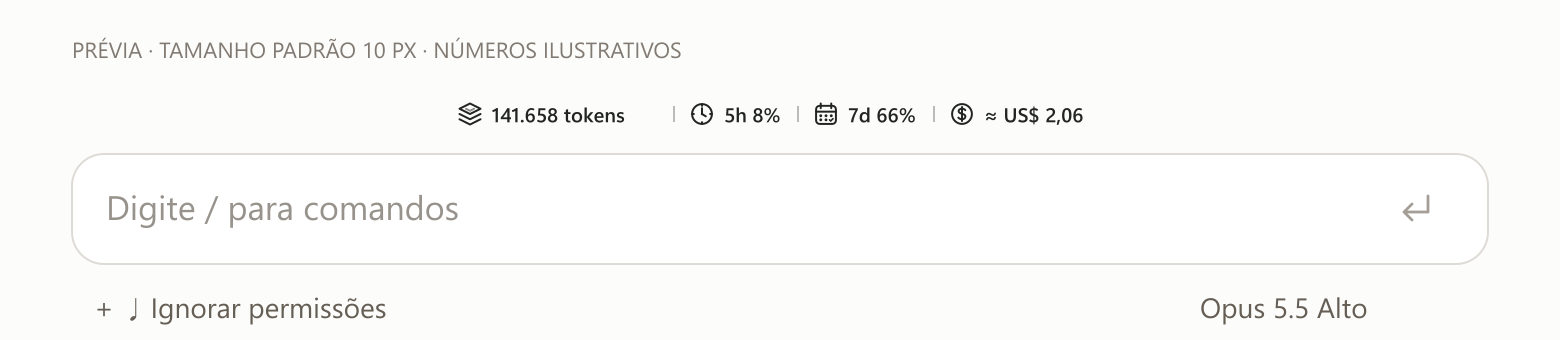
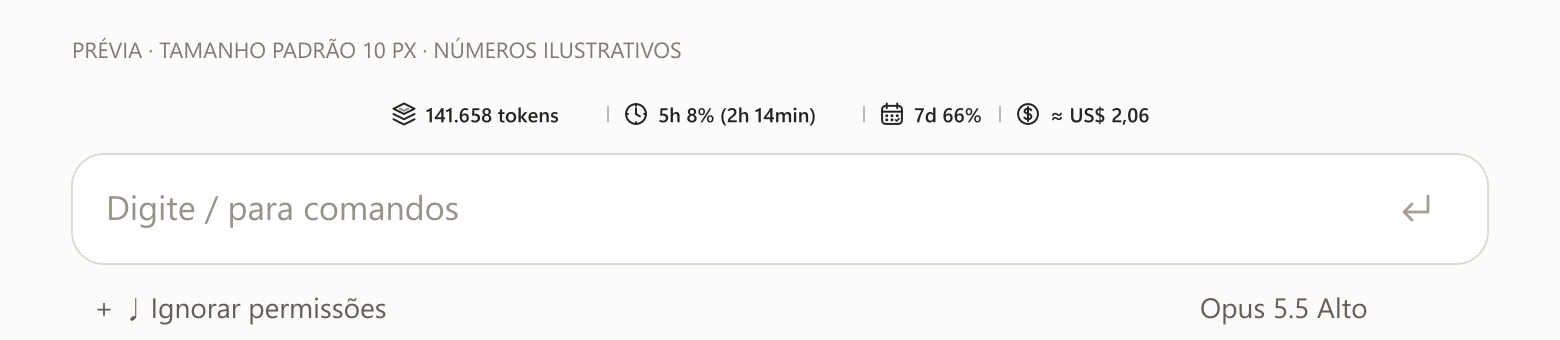
Show five-hour reset countdown in the compact band

Changed region(s): [[0.2462, 0.2941, 0.7385, 0.3824]]

diff --git a/tests/mod.test.ts b/tests/mod.test.ts
@@ -15,7 +15,7 @@ function fixture(on, seed: Record<string, unknown> = {}) {
   const commands: string[] = [];
   const renders: any[] = [];
   const reads: string[] = [];
-  mock.clock(on, { now: 1_791_046_800_000 });
+  const clock = mock.clock(on, { now: 1_791_046_800_000 });
   on('store.get', ($, e) => ({ value: saved.get(e.key) }));
   on('store.set', ($, e) => { saved.set(e.key, e.value); return { value: undefined }; });
   on('session.id', () => ({ value: identity.id }));
@@ -36,7 +36,7 @@ function fixture(on, seed: Record<string, unknown> = {}) {
   on('session.measure', ($, e) => ({ changed: e.changed }));
   on('prompt.submit', ($, e) => ({ text: e.text }));
   on('turn.complete', () => ({ text: '' }));
-  return { saved, commands, renders, identity, reads };
+  return { saved, commands, renders, identity, reads, clock };
 }
 
 test('draws a tiny SVG above the input, preserves other mods and reads icons only once', async ($, on) => {
@@ -78,6 +78,7 @@ test('each native switch removes its own indicator without custom panels', async
     const input = { component: 'AbovePrompt', surface: 'desktop', props: { hasSurvey: false, bodyColumns: 80 } };
     const element = type => ({ children = [], ...props }) => ({ type, props, children });
     const $ = { plugin: { root: 'plugin' }, fs: { read: async () => '<svg><path d="M0 0h24"/></svg>' },
+      clock: { now: async () => 1_791_046_800_000 },
       ui: { resolve: () => ({ Text: element('Text'), Box: element('Box'), Svg: element('Svg') }) } };
     const other = { type: 'Text', props: {}, children: ['Other mod'] };
     let fallbacks = 0;
@@ -98,6 +99,35 @@ test('each native switch removes its own indicator without custom panels', async
       [{ event: 'ui.render', matcher: { component: 'AbovePrompt' } }]);
     expect(registrations.some(r => r.event === 'command.run')).toBe(false);
   }
+});
+
+test('the five-hour countdown redraws while idle and follows a new reset timestamp', async ($, on) => {
+  const f = fixture(on);
+  const invalidations: string[] = [];
+  on('ui.invalidate', ($, e, next) => { invalidations.push(e.event); return next(e); });
+  await $.session.start({ cwd: CWD, surface: 'desktop', isInteractive: true });
+  await $.classic.SessionStart({ source: 'resume' });
+  const measured = { ...usage, rateLimits: [
+    { kind: 'five_hour', percentUsed: 23, resetsAt: new Date(f.clock.now() + 134 * 60000).toISOString() },
+    { kind: 'seven_day', percentUsed: 61, resetsAt: new Date(f.clock.now() + 7 * 86400000).toISOString() }
+  ], changed: ['rateLimits'] as const };
+  await $.session.measure(measured);
+  const ui = await $.ui.mount({ ...band, surface: 'desktop' });
+  expect((await ui.find({ type: 'Svg' })).props.alt).toContain('5h 23% (2h 14min)');
+  expect((await ui.find({ type: 'Svg' })).props.alt).toContain('Semana: 7d 61%;');
+  invalidations.length = 0;
+  await f.clock.advance(60000);
+  expect(invalidations).toEqual(['ui.render']);
+  expect((await ui.find({ type: 'Svg' })).props.alt).toContain('5h 23% (2h 13min)');
+  await $.session.measure({ ...measured, rateLimits: [
+    { kind: 'five_hour', percentUsed: 0, resetsAt: new Date(f.clock.now() + 60000).toISOString() }
+  ] });
+  expect((await ui.find({ type: 'Svg' })).props.alt).toContain('5h 0% (1min)');
+  await f.clock.advance(60000);
+  expect((await ui.find({ type: 'Svg' })).props.alt).toContain('5h 0% (0min)');
+  await $.session.measure({ ...measured, rateLimits: [{ kind: 'five_hour', percentUsed: 5 }] });
+  expect((await ui.find({ type: 'Svg' })).props.alt).toContain('Sessão (5 horas): 5h 5%;');
+  await ui.unmount();
 });
 
 test('updates quota measurements and keeps unavailable data distinct from zero', async ($, on) => {

diff --git a/hooks/lib.js b/hooks/lib.js
@@ -21,6 +21,17 @@ export function tokenCount(value) {
     ? Math.round(value).toString().replace(/\B(?=(\d{3})+(?!\d))/g, '.') : '—';
 }
 
+export function resetCountdown(resetsAt, now) {
+  if (typeof resetsAt !== 'string' || !Number.isFinite(now)) return null;
+  const reset = Date.parse(resetsAt);
+  if (!Number.isFinite(reset)) return null;
+  // Round up: a window with a few seconds remaining has not reset yet.
+  const totalMinutes = Math.max(0, Math.ceil((reset - now) / 60000));
+  const hours = Math.floor(totalMinutes / 60);
+  const minutes = totalMinutes % 60;
+  return hours ? hours + 'h' + (minutes ? ' ' + minutes + 'min' : '') : minutes + 'min';
+}
+
 export function emptyLedger() {
   return { usd: 0, requests: 0, unpriced: 0, seen: [], models: {}, sinceActivation: false };
 }
@@ -52,7 +63,7 @@ export function costInfo(usage, ledger) {
   return { usd: ledger.usd, source: 'tabela oficial', partial: ledger.sinceActivation || ledger.unpriced > 0 };
 }
 
-export function indicators(usage, prefs, ledger) {
+export function indicators(usage, prefs, ledger, now) {
   const result = [];
   const context = usage?.context ?? {};
   if (prefs.context) result.push({ key: 'context', label: 'Contexto', value: context.tokens, text:
@@ -60,7 +71,9 @@ export function indicators(usage, prefs, ledger) {
   for (const [key, kind, label, short] of [['session', 'five_hour', 'Sessão (5 horas)', '5h'], ['weekly', 'seven_day', 'Semana', '7d']]) {
     if (!prefs[key]) continue;
     const window = usage?.rateLimits?.find(w => w.kind === kind);
-    result.push({ key, label, value: window?.percentUsed, text: short + ' ' + percent(window?.percentUsed) });
+    const remaining = key === 'session' ? resetCountdown(window?.resetsAt, now) : null;
+    result.push({ key, label, value: window?.percentUsed,
+      text: short + ' ' + percent(window?.percentUsed) + (remaining === null ? '' : ' (' + remaining + ')') });
   }
   if (prefs.cost) {
     const cost = costInfo(usage, ledger);

diff --git a/tests/pricing.test.ts b/tests/pricing.test.ts
@@ -1,9 +1,25 @@
 import { expect, test } from 'claude-code/testing';
 import { modelPrice, requestCost } from '../hooks/prices.js';
-import { addRequest, emptyLedger, costInfo, indicators, DEFAULTS, preferences } from '../hooks/lib.js';
+import { addRequest, emptyLedger, costInfo, indicators, DEFAULTS, preferences, resetCountdown } from '../hooks/lib.js';
 
 const response = { model: 'claude-opus-5-5-20260901', input_tokens: 1000, output_tokens: 100,
   cache_creation_input_tokens: 2000, cache_read_input_tokens: 5000 };
+
+test('counts down the actual account reset across time zones without inventing missing data', () => {
+  const now = Date.parse('2026-10-03T17:00:00-03:00');
+  expect(resetCountdown('2026-10-03T22:14:00Z', now)).toBe('2h 14min');
+  expect(resetCountdown('2026-10-03T19:14:00-03:00', now)).toBe('2h 14min');
+  expect(resetCountdown('2026-10-03T21:00:00Z', now)).toBe('1h');
+  expect(resetCountdown('2026-10-03T20:00:01Z', now)).toBe('1min');
+  expect(resetCountdown('2026-10-03T20:00:00Z', now)).toBe('0min');
+  expect(resetCountdown('2026-10-02T20:00:00Z', now)).toBe('0min');
+  for (const timestamp of [undefined, null, '', 'not a timestamp', 1791064800])
+    expect(resetCountdown(timestamp, now)).toBe(null);
+  expect(resetCountdown('2026-10-03T22:14:00Z', NaN)).toBe(null);
+  const measured = { rateLimits: [{ kind: 'five_hour', percentUsed: 100, resetsAt: '2026-10-03T20:00:00Z' }] };
+  expect(indicators(measured, DEFAULTS, emptyLedger(), now)[1].text).toBe('5h 100% (0min)');
+  expect(indicators(measured, { ...DEFAULTS, session: false }, emptyLedger(), now).some(item => item.key === 'session')).toBe(false);
+});
 
 test('prices disjoint input, output and cache categories, including Opus 5.5 cache discount', () => {
   expect(Number(requestCost(response).toFixed(6))).toBe(0.017);

diff --git a/hooks/register.js b/hooks/register.js
@@ -5,6 +5,16 @@ let ledger = emptyLedger();
 let sessionId = '';
 let usage = null;
 let writes = Promise.resolve();
+let countdown;
+
+function startCountdown($, enabled) {
+  if (enabled && !countdown) {
+    countdown = $.clock.every(60000, () => {
+      if (usage?.rateLimits?.some(window => window.kind === 'five_hour' && window.resetsAt))
+        $.ui.invalidate('ui.render');
+    });
+  }
+}
 
 async function refresh($) {
   usage = await $.session.usage();
@@ -26,11 +36,13 @@ export function register(on, options = {}) {
 
   on('session.start', async ($, e, next) => {
     await loadSession($);
+    startCountdown($, prefs.session);
     return next(e);
   });
 
   on('classic.SessionStart', { source: ['clear', 'resume', 'fork'] }, async ($, e, next) => {
     await loadSession($);
+    startCountdown($, prefs.session);
     return next(e);
   });
 
@@ -79,7 +91,7 @@ export function register(on, options = {}) {
   });
 
   on('ui.render', { component: 'AbovePrompt' }, async ($, e, next) => {
-    const items = indicators(usage, prefs, ledger);
+    const items = indicators(usage, prefs, ledger, await $.clock.now());
     if (e.props.hasSurvey || !items.length) return next(e);
     const { Box, Text, Svg } = $.ui.resolve(e);
     let content;

diff --git a/README.md b/README.md
@@ -1,6 +1,6 @@
 # Kadenai's Style
 
-**v0.3.4 · Claude Code Desktop**
+**v0.3.5 · Claude Code Desktop**
 
 Uma linha pequena e centralizada acima da caixa de mensagem com quatro ícones SVG, texto e separadores na cor **#212420**: tokens utilizados no contexto, cota de 5 horas, cota semanal e custo equivalente de API. Os dados aparecem automaticamente, com fonte sans-serif mais marcada e fundo integrado ao tema.
 
@@ -9,7 +9,7 @@ Uma linha pequena e centralizada acima da caixa de mensagem com quatro ícones S
 | Indicador | O que mostra |
 | --- | --- |
 | Camadas / tokens | Tokens utilizados na janela de contexto atual, conforme a última resposta |
-| Relógio / 5h | Percentual usado da cota de 5 horas da conta |
+| Relógio / 5h | Percentual usado da cota de 5 horas da conta e tempo até o reset, entre parênteses |
 | Calendário / 7d | Percentual usado da cota semanal da conta |
 | Moeda / US$ | Quanto a conversa teria custado pela API, em dólares |
 
@@ -63,6 +63,8 @@ As medições atualizam em `session.measure` e ao concluir respostas. As cotas p
 
 A cota de sessão corresponde à janela de 5 horas **da conta**. O contexto mostra `context.tokens`, incluindo entrada normal e tokens de cache. É a janela atual, com o efeito da compactação; não é a soma de todos os tokens da conversa. Não calculamos tokens a partir do percentual arredondado.
 
+O relógio mostra, por exemplo, **`5h 8% (2h 14min)`**. A contagem usa `five_hour.resetsAt`, o horário de reset informado pelo Claude, e o relógio do host. Atualiza a cada minuto mesmo com a conversa parada, sem fazer requisições a modelos ou consultas HTTP. Os minutos são arredondados para cima; ao chegar ao horário informado, mostra `0min`, mantendo o percentual até o Claude informar uma nova medição. Sem horário válido, os parênteses não aparecem. O controle **Mostrar limite da sessão** também liga ou desliga essa contagem.
+
 A interface usa `AbovePrompt`. No Desktop, um SVG reúne texto e ícones, permitindo ajustar o tamanho do conjunto. No terminal, a mesma faixa usa texto. O mod preserva o conteúdo dos mods que vêm depois dele e cede a faixa aos controles nativos quando `hasSurvey` está ativo. Um mod anterior que substitua toda a faixa pode impedir a exibição.
 
 O ponto anterior, `SessionMode`, filtra SVGs no Desktop analisado e limita o texto a `24ch`. A versão 0.3.0 usa a faixa acima da caixa para oferecer os ícones e mais espaço, sem duplicar os indicadores no rodapé.
@@ -88,13 +90,19 @@ claude plugin test .
 node scripts/verify-desktop.mjs
 ```
 
-**18 testes locais passaram** no Claude Code 2.1.288 e no motor 2.1.286 do Desktop 2.19675.0.0. Usam o kit oficial `claude-code/testing` e cobrem o SVG no ponto correto, ausência de botões, as 16 combinações de controles, tokens reais, dados indisponíveis, tamanho ajustável, quebra de linha, convivência com outros mods, prioridade dos controles nativos, streaming, subagentes, retomada e preços.
+**20 testes locais passaram** no Claude Code 2.1.288 e no motor 2.1.286 do Desktop 2.19675.0.0. Usam o kit oficial `claude-code/testing` e cobrem o SVG no ponto correto, ausência de botões, as 16 combinações de controles, tokens reais, dados indisponíveis, tamanho ajustável, quebra de linha, convivência com outros mods, prioridade dos controles nativos, streaming, subagentes, retomada e preços. A contagem de reset é verificada com relógio simulado: atualização durante inatividade, novo horário recebido, fusos, minutos incompletos e dados ausentes.
 
 O teste `scripts/verify-desktop.mjs` também passou nas duas versões. Ele inicia um motor isolado e envia a solicitação `ui_render` usada pelo Desktop, sem solicitar respostas a modelos. Primeiro confirma que a composição inválida da 0.3.1 é recusada pela validação de produção; depois confirma que a faixa corrigida é aceita, com SVG e referência nativa preservada. Para escolher outro executável, defina `CLAUDE_CODE_EXECUTABLE`. A configuração temporária é isolada das configurações e servidores MCP do usuário.
 
 A prévia é gerada com os mesmos SVGs e o mesmo código de desenho usado pelo mod. Uma verificação adicional em navegador sem interface reproduziu a moldura nativa e executou o normalizador e o gerador de estilos do Desktop analisado: a faixa permaneceu centralizada e cobriu o cinza nos dois temas, com tamanhos 8, 10 e 20 e em uma coluna estreita. Essas verificações não substituem uma conferência visual na conversa aberta.
 
 A moldura do Desktop reserva uma altura mínima de 40 px antes do zoom do aplicativo; diminuir o tamanho reduz os indicadores dentro desse espaço. A cobertura usa somente propriedades nativas de `Box` e a cor `memoryBackgroundColor`, que o Desktop mapeia para a superfície da conversa. Essa moldura pode mudar em versões futuras. A interface requer uma sessão com renderização; não há garantia de exibição no SDK, na nuvem ou em WSL.
+
+## Mudanças em 0.3.5
+
+- Tempo até o reset da janela de 5 horas entre parênteses, junto ao percentual: **`5h 8% (2h 14min)`**.
+- Atualização automática a cada minuto com o relógio nativo, sem novas chamadas de API.
+- O horário vem do próprio Claude; não é deduzido do início da conversa.
 
 ## Mudanças em 0.3.4
 
